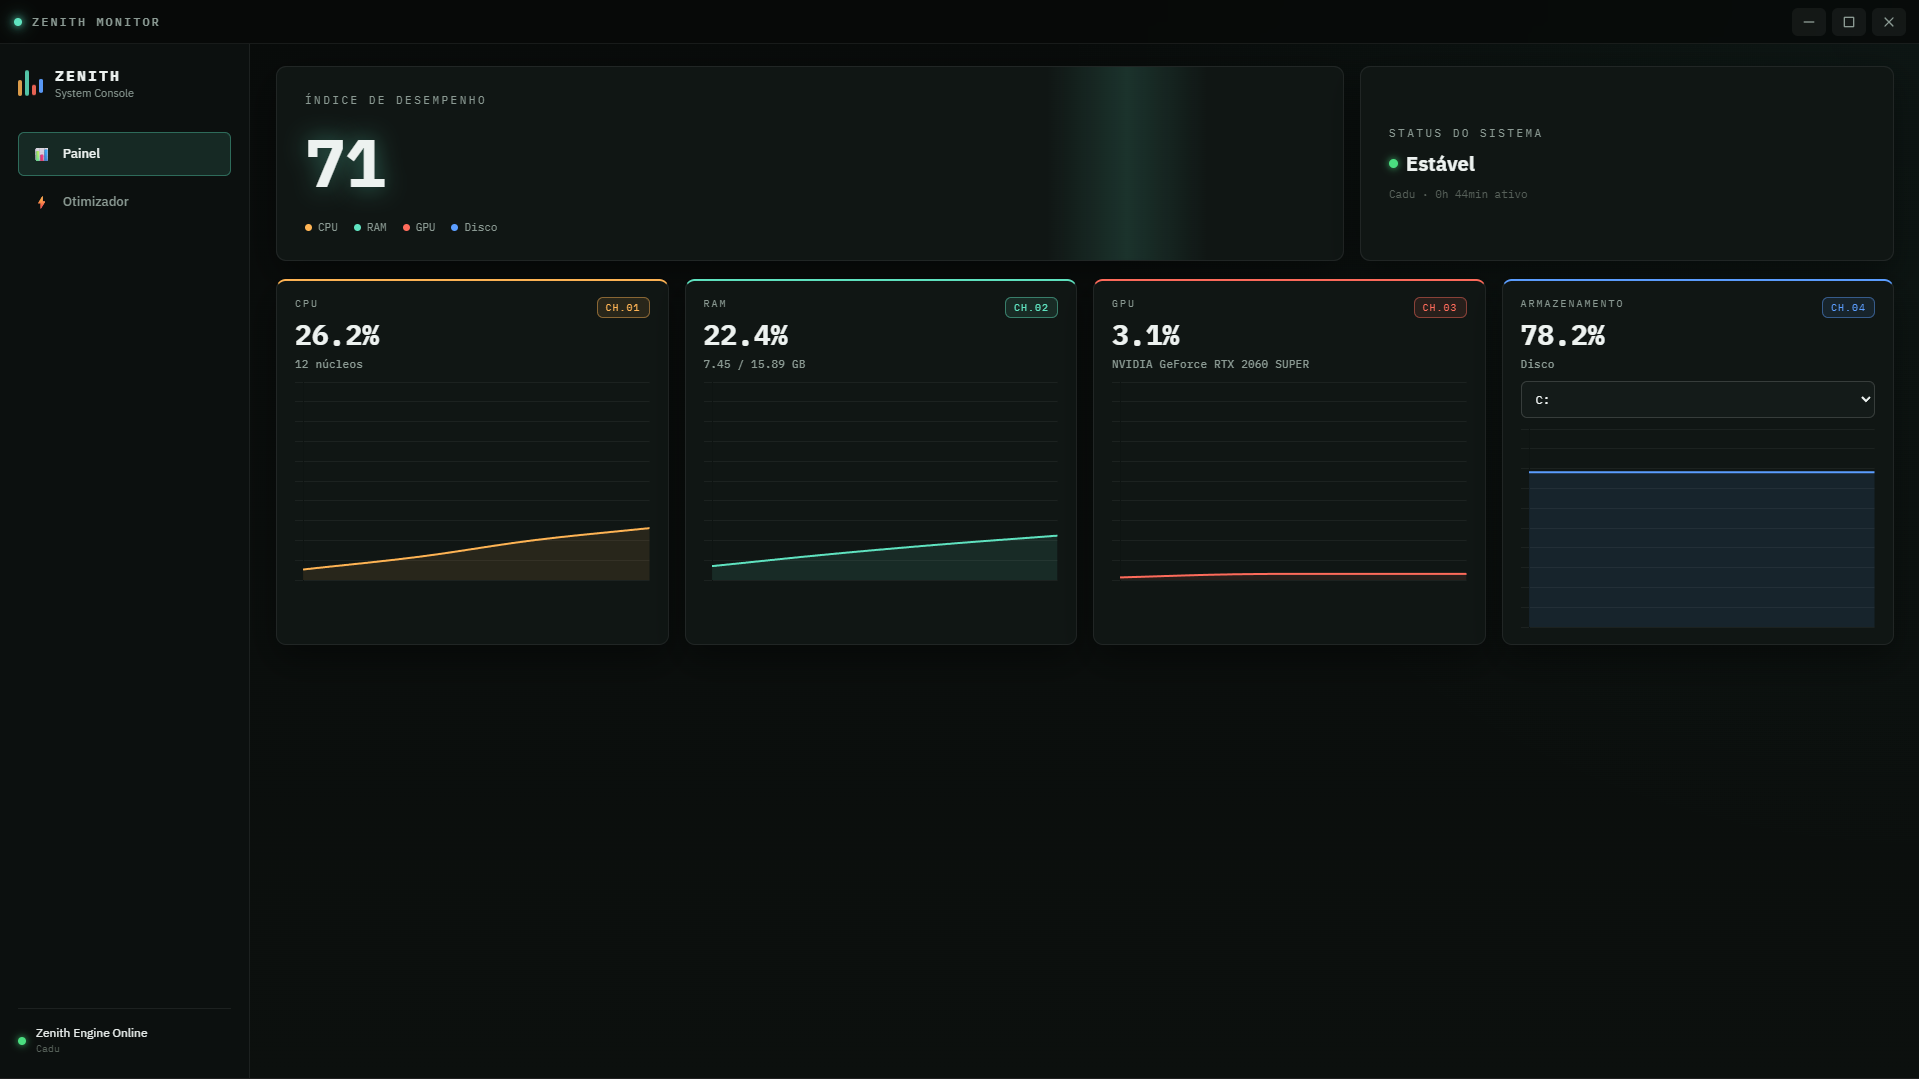
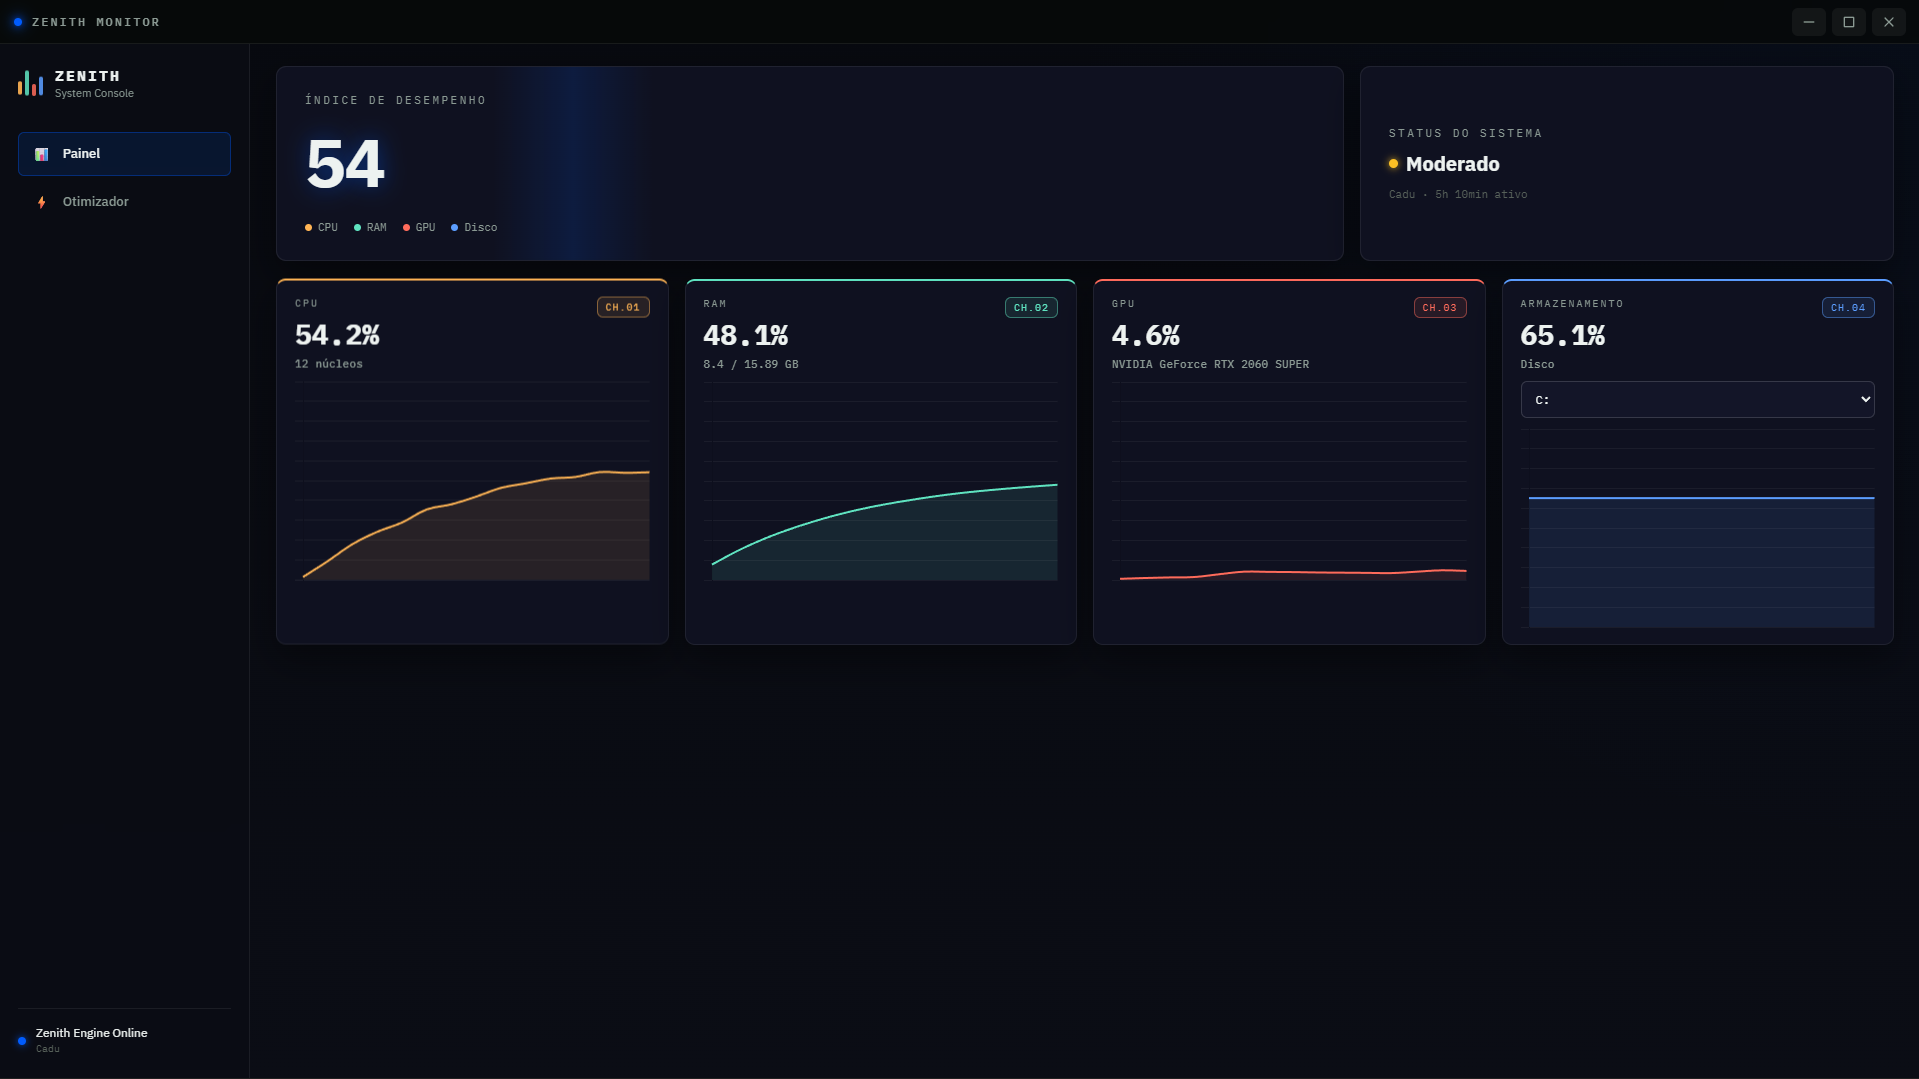
Atualização da cores do app para combinar com identidade azul da marca

diff --git a/src/styles/dashboard.css b/src/styles/dashboard.css
@@ -1,19 +1,22 @@
+/* =========================================================
+   ZENITH MONITOR
+   CONSOLE DE TELEMETRIA — 4 CANAIS
+   ========================================================= */
+
 @import url("https://fonts.googleapis.com/css2?family=IBM+Plex+Mono:wght@400;500;600;700&family=IBM+Plex+Sans:wght@400;500;600;700&display=swap");
 
 :root {
 
     /* ---- Chassi (fundo) ---- */
-    --bg-void: #080b0a;
-    --bg-2: #0c100e;
-
-    /* ---- Painéis ---- */
-    --panel: #101614;
-    --panel-raised: #141b19;
-    --sidebar: rgba(12, 16, 15, .92);
+    --bg-void: #07090f;
+    --bg-2:    #0b0d15;
+    --panel:   #0f1120;
+    --panel-raised: #131528;
+    --sidebar: rgba(10, 12, 20, .92);
 
     --border: rgba(255, 255, 255, .07);
     --border-strong: rgba(255, 255, 255, .15);
-    --grid-line: rgba(135, 255, 214, .055);
+    --grid-line: rgba(0, 91, 253, .055);
 
     /* ---- Canais (cada métrica = 1 canal, tipo osciloscópio) ---- */
     --ch-cpu: #ffb454;
@@ -22,7 +25,9 @@
     --ch-disk: #5b9dff;
 
     /* ---- Acento principal (deriva do canal RAM) ---- */
-    --accent: var(--ch-ram);
+    --accent: #005BFD;
+    --accent-light: #3d80ff;
+    --accent-glow: rgba(0, 91, 253, .35);
 
     /* ---- Status ---- */
     --success: #4ade80;
@@ -66,7 +71,7 @@ body {
     color: var(--text);
     overflow: hidden;
     background:
-        radial-gradient(circle at 100% 0%, rgba(95, 227, 192, .05), transparent 40%),
+        radial-gradient(circle at 100% 0%, rgba(0, 91, 253, .04), transparent 40%),
         linear-gradient(180deg, var(--bg-void), var(--bg-2));
 }
 
@@ -287,8 +292,8 @@ button, select {
     width: 8px;
     height: 8px;
     border-radius: 50%;
-    background: var(--success);
-    box-shadow: 0 0 8px var(--success);
+    background: var(--accent);
+    box-shadow: 0 0 8px var(--accent);
     flex-shrink: 0;
 }
 
@@ -445,8 +450,8 @@ button, select {
     width: 9px;
     height: 9px;
     border-radius: 50%;
-    background: var(--success);
-    box-shadow: 0 0 8px var(--success);
+    background: var(--accent);
+    box-shadow: 0 0 8px var(--accent);
 }
 
 .status-dot-live.status-warn { background: var(--warning); box-shadow: 0 0 8px var(--warning); }
@@ -621,12 +626,13 @@ canvas {
 #optimize-btn {
     background: var(--accent);
     border-color: var(--accent);
-    color: #06140f;
+    color: #ffffff;
+    box-shadow: 0 0 18px rgba(0, 91, 253, .35);
 }
 
 #optimize-btn:hover {
-    filter: brightness(1.08);
-    color: #06140f;
+    filter: brightness(1.1);
+    color: #ffffff;
     background: var(--accent);
 }
 
@@ -649,7 +655,7 @@ canvas {
 .log-status {
     font-family: var(--font-mono);
     font-size: 10px;
-    color: var(--success);
+    color: var(--accent);
     letter-spacing: 1px;
 }
 